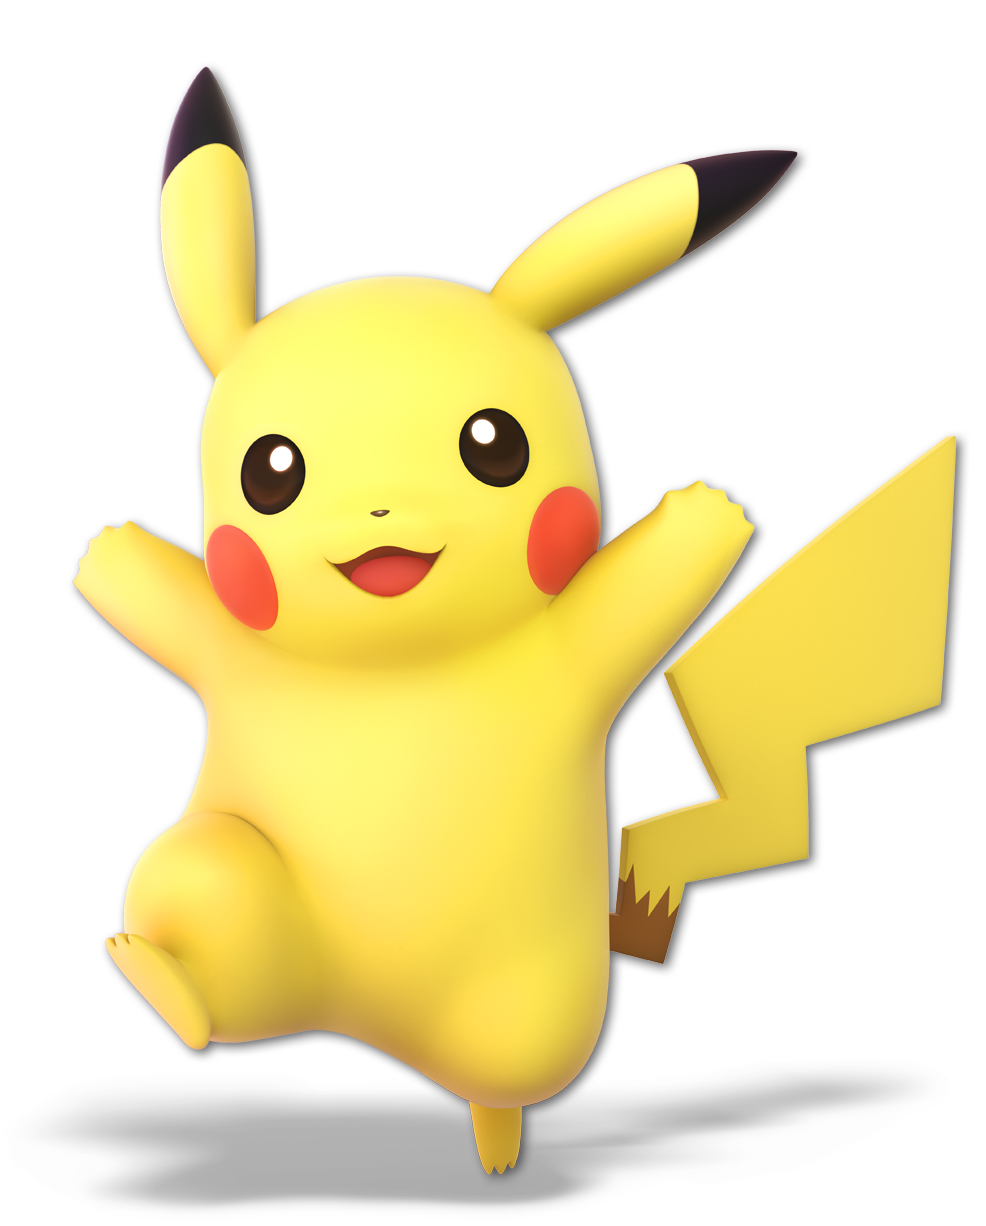
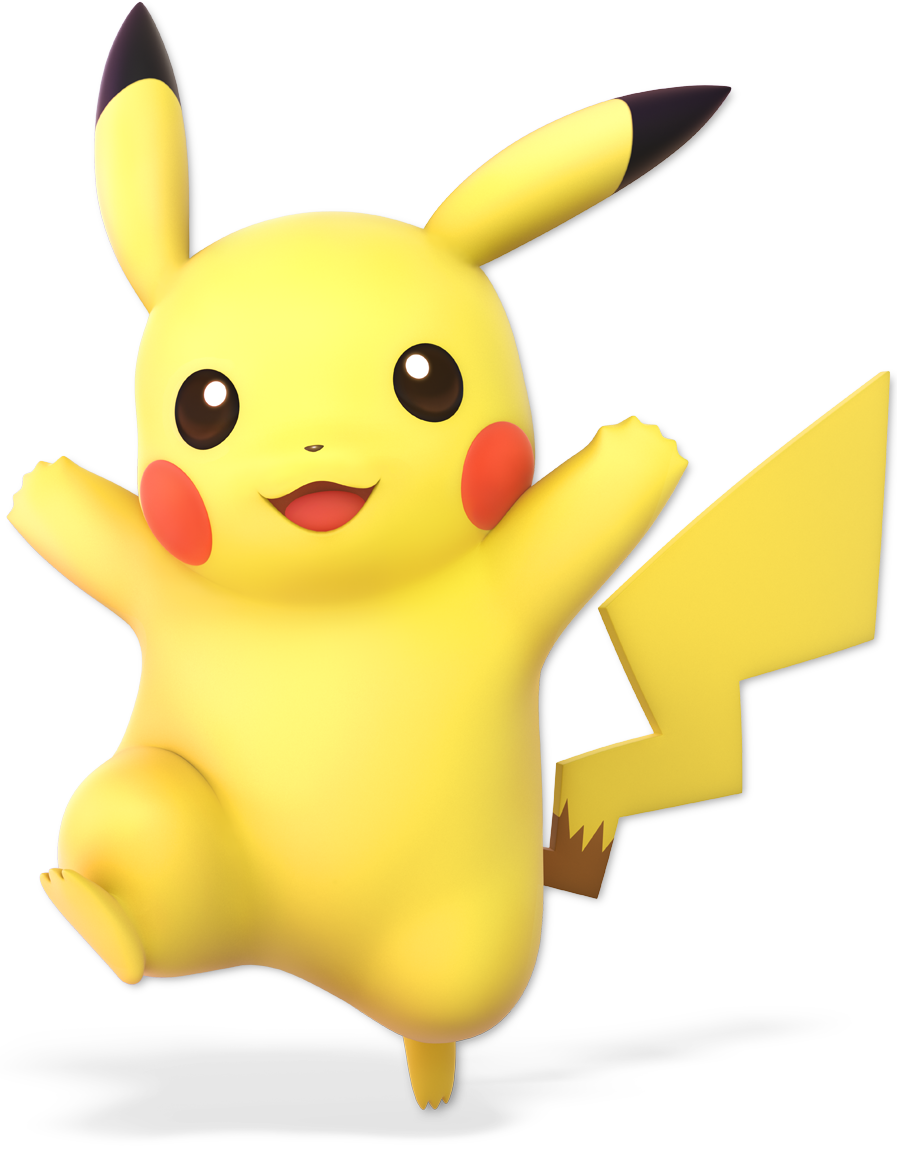
Tarjeta segundo avance

Changed region(s): [[0.0, 0.0, 0.9989, 0.9922]]

diff --git a/Tarjetas.css b/Tarjetas.css
@@ -9,8 +9,6 @@ body {
     flex-direction: row;
     width: auto;
     height: auto;
-    margin-top: 0;
-    z-index: 0;
     /*overflow: hidden;*/ 
     margin: 0px;
 }
@@ -24,7 +22,7 @@ body {
 .texto {
     max-width: 50%;
     margin-left: 4%;
-    margin-top: 4%;
+    margin-top: 3%;
 }
 .texto h1 {
     font-size: 2.5em;
@@ -72,16 +70,15 @@ body {
 .contenedor1 {
     display: flex;
     justify-content: center;
-    align-items: center;
-    gap: 20px;
-    margin-right: 449px;
+    margin-right: 300px;
+    justify-content: left;
 }
 .rectangulo {
     display: flex;
     height: 50px;
-    width: 160px;
+    width: 125px;
     border-radius: 20px;
-    background-color: rgb(106, 183, 231);
+    background-color: #6D4A1D;
     color: #e7dede;
     align-items: center;
     justify-content: center;
@@ -91,10 +88,10 @@ body {
 .rectangulo2 {
     display: flex;
     height: 50px;
-    width: 160px;
+    width: 125px;
     border-radius: 20px;
-    background-color: rgb(243, 148, 70);
-    color: #e7dede;
+    background-color: #FBDB00;
+    color: #1d1d1b;
     align-items: center;
     justify-content: center;
     font-weight: 600;
@@ -105,8 +102,8 @@ body {
     height: 50px;
     width: 125px;
     border-radius: 20px;
-    background-color: rgb(87, 68, 9);
-    color: #e7dede;
+    background-color: #9AC7EC;
+    color: #1d1d1b;
     align-items: center;
     justify-content: center;
     font-weight: 600;
@@ -125,7 +122,7 @@ body {
     margin: 18px 0;
     font-weight: 600;
     margin-top: 2px;
-    margin-left: 77px;
+    margin-left: 53px;
 }
 .texto3 {
     font-size: 15px;
@@ -135,7 +132,27 @@ body {
     margin-top: 17px;
 }
 .imagen-pokemon {
-    background-image: url(Elementos/PRUEBA.png);
+    display: flex;
+    position: relative;
+    z-index: 1;
+    background-image: url(Elementos/Electrico.png);
     width: 50%;
     height: 100vh;
+}
+.pokemon-main {
+    width: 90%;
+    height: 90%;
+    margin-top: 36px;
+    margin-left: 30px;
+}
+.sprites-img {
+    display: flex;
+    position: absolute;
+    z-index: 3;
+    flex-direction: row;
+    gap: 110px;
+    width: 130px;
+    height: 130px;
+    margin-top: 34%;
+    right: 85%;
 }

diff --git a/Tarjetas.html b/Tarjetas.html
@@ -11,31 +11,39 @@
 <body>
     <div class="Cuadro">
             <div class="texto">
-                <h1>Scorbunny</h1>
-                <h2>N°0813</h2>
+                <h1>Pikachu</h1>
+                <h2>N°025</h2>
                 <h3>Lorem ipsum dolor sit amet consectetur adipisicing elit. A quas facilis corrupti nisi quisquam veritatis beatae voluptatum error enim unde.</h3>
                 <div class="cajita1">
                     <h4>Heigth:</h4>
-                    <h5>1.4m</h5>
+                    <h5>1.4M</h5>
                     <h6>Category:</h6>
-                    <h5>Rabbit</h5>
+                    <h5>Mouse</h5>
                     <h6>Weight:</h6>
-                    <h5>sample text</h5>
+                    <h5>60K</h5>
                     <h6>Ability:</h6>
-                    <h5>cosillas ay</h5>
+                    <h5>Static</h5>
                 </div>
                 <div class="cajita1">
                     <div class="texto1">Weakness:</div>
                     <div class="texto2">Type:</div>
                 </div>
                 <div class="contenedor1">
-                    <div class="rectangulo">Sample</div>
-                    <div class="rectangulo2">Sample</div>
+                    <div class="rectangulo">Ground</div>
+                    <div class="rectangulo2">Electric</div>
                 </div>
-                <div class="rectangulo3">Sample</div>
-                <div class="texto3">Poses:</div>
+                <div class="rectangulo3">Flying</div>
+                <div class="texto3">Sprites:</div>
             </div>
-            <div class="imagen-pokemon"></div>
+            <div class="sprites-img">
+                <img src="Elementos/Ejemplo espalda.png" alt="ejemplo">
+                <img src="Elementos/Ejemplo frente.png" alt="ejemplo">
+                <img src="Elementos/Ejemplo Shiny.png" alt="ejemplo">
+            </div>
+            <div class="imagen-pokemon">
+                <img class="pokemon-main" src="Elementos/Ejemplo pokemon.png" alt="ejemplo">
+            </div>
     </div>
+
 </body>
 </html>
